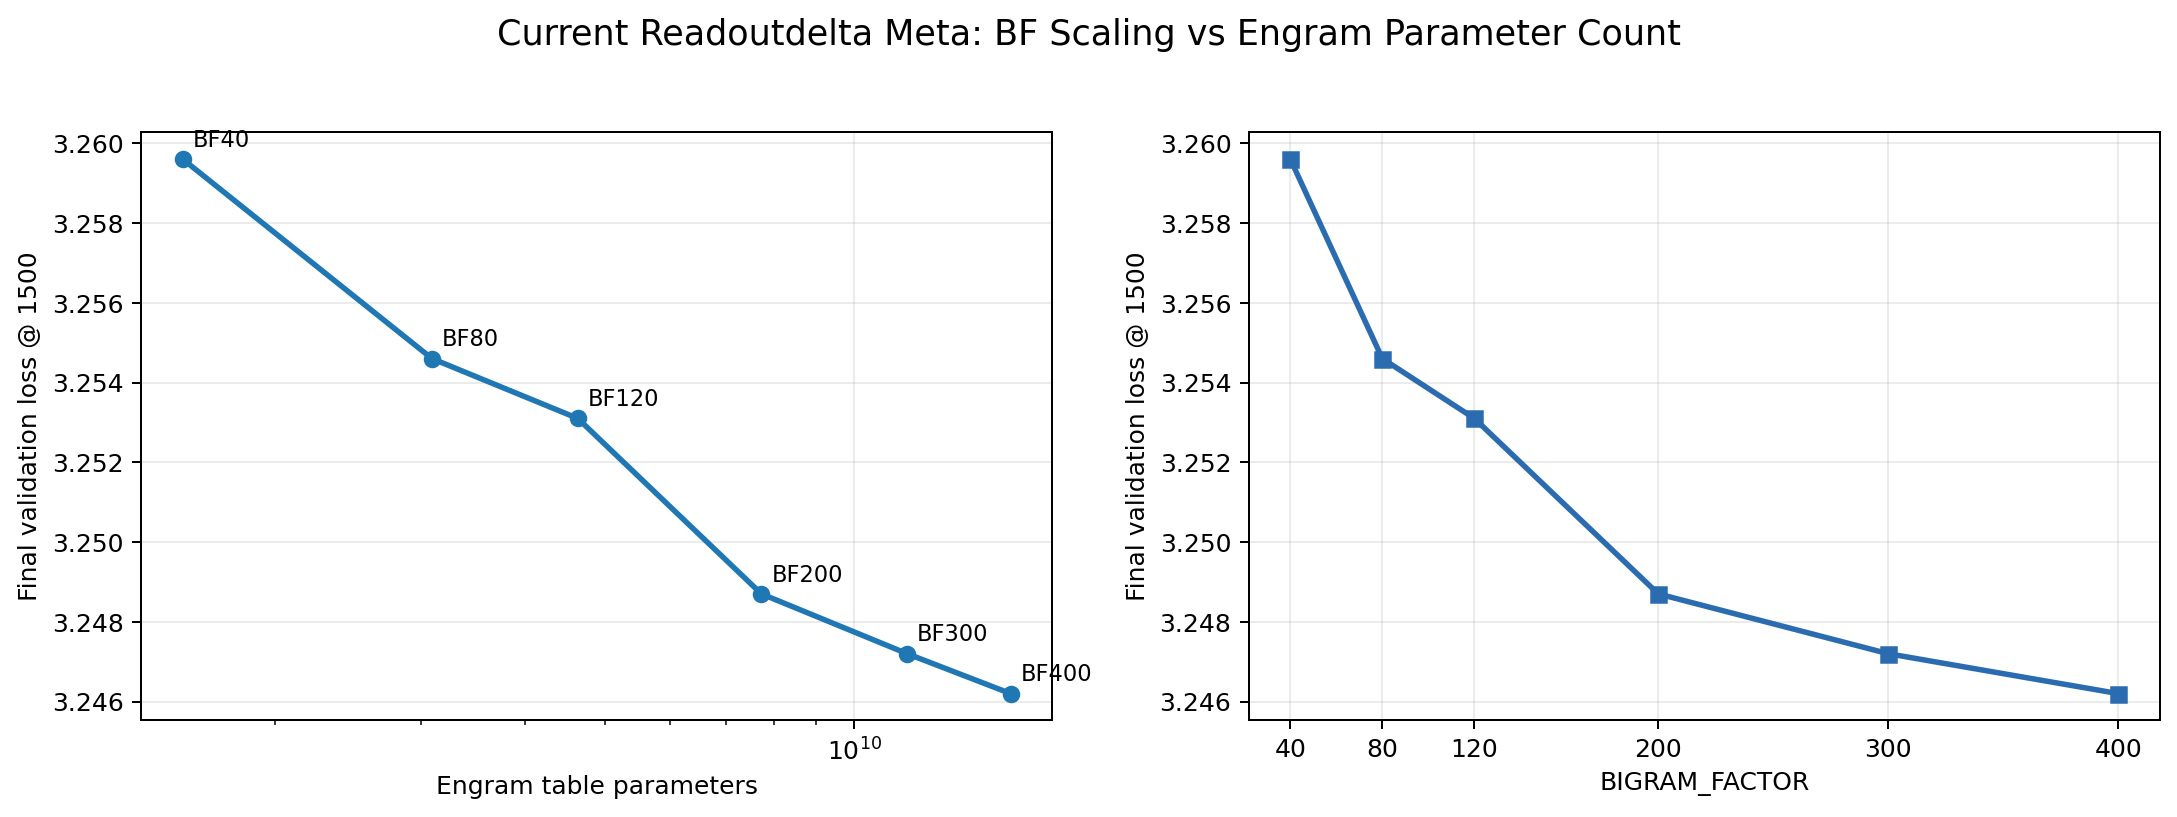
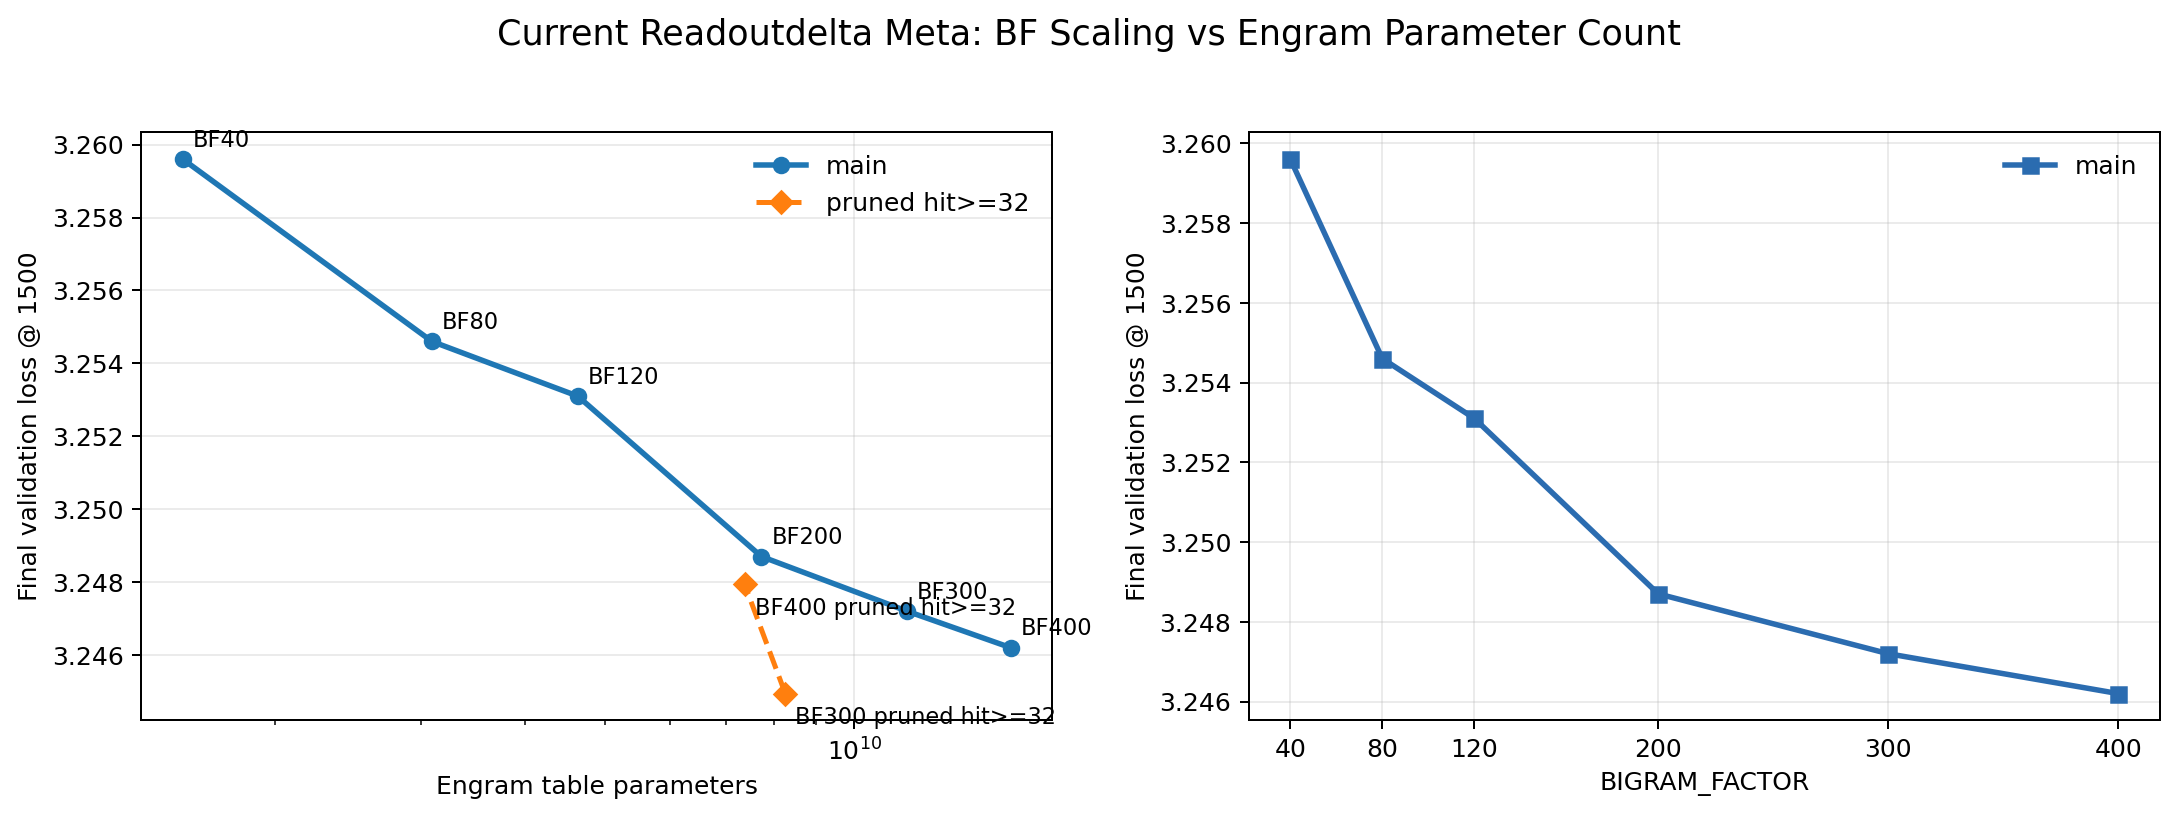
Add pruned Engram table overlay

diff --git a/experiments/modded_nanogpt_work/reports/make_bf_sota_scaling_20260609.py b/experiments/modded_nanogpt_work/reports/make_bf_sota_scaling_20260609.py
@@ -6,7 +6,7 @@ import csv
 import io
 import math
 import re
-from dataclasses import dataclass
+from dataclasses import dataclass, replace
 from pathlib import Path
 
 
@@ -20,6 +20,12 @@ READOUTDELTA_RUNS = {
     120: "bf120_sota_readoutdelta_seed5_1500_20260609.txt",
     200: "bf200_sota_readoutdelta_seed5_1500_20260609.txt",
     300: "bf300_sota_readoutdelta_seed5_1500_20260609.txt",
+}
+MEASURED_COLD_TAIL_PRUNING = {
+    # Post-hoc checkpoint evals from report.md. Rows with hit < 32 are zeroed.
+    # Parameter count assumes compacting the table down to retained hit>=32 rows.
+    300: {"base_eval_loss": 3.24435, "pruned_row_fraction": 0.2875, "eval_loss": 3.24494},
+    400: {"base_eval_loss": 3.24525, "pruned_row_fraction": 0.5229, "eval_loss": 3.24794},
 }
 
 
@@ -170,6 +176,60 @@ def write_summary(path: Path, runs: list[Run]) -> None:
             )
 
 
+def make_pruned_runs(runs: list[Run], pruning: dict[int, dict[str, float]]) -> list[Run]:
+    pruned_runs: list[Run] = []
+    for r in runs:
+        spec = pruning.get(r.bf)
+        if spec is None:
+            continue
+        retained_fraction = 1.0 - float(spec["pruned_row_fraction"])
+        retained_rows = max(1, int(round(r.table_rows * retained_fraction)))
+        pruned_runs.append(
+            replace(
+                r,
+                final_val=float(spec["eval_loss"]),
+                table_rows=retained_rows,
+                table_params=retained_rows * r.store_dim,
+                peak_mib=None,
+                touched_fraction=retained_fraction,
+            )
+        )
+    return pruned_runs
+
+
+def write_pruning_summary(path: Path, baseline_runs: list[Run], pruned_runs: list[Run]) -> None:
+    baseline_by_bf = {r.bf: r for r in baseline_runs}
+    with path.open("w", newline="") as f:
+        writer = csv.writer(f)
+        writer.writerow(
+            [
+                "bf",
+                "checkpoint_base_eval_loss",
+                "pruned_eval_loss",
+                "delta",
+                "baseline_table_params",
+                "pruned_table_params",
+                "retained_fraction",
+                "pruning_rule",
+            ]
+        )
+        for r in pruned_runs:
+            base = baseline_by_bf[r.bf]
+            base_eval_loss = float(MEASURED_COLD_TAIL_PRUNING[r.bf]["base_eval_loss"])
+            writer.writerow(
+                [
+                    r.bf,
+                    f"{base_eval_loss:.6f}",
+                    f"{r.final_val:.6f}",
+                    f"{r.final_val - base_eval_loss:+.6f}",
+                    base.table_params,
+                    r.table_params,
+                    f"{r.table_params / base.table_params:.6g}",
+                    "zero-mask rows with hit < 32; params assume compaction",
+                ]
+            )
+
+
 def plot_scaling(
     runs: list[Run],
     overlays: list[tuple[str, list[Run]]] | None,
@@ -217,6 +277,8 @@ def plot_scaling(
     ax.plot([r.bf for r in runs], ys, marker="s", linewidth=2.2, color="#2b6cb0", label="main")
     for label, overlay_runs in overlays or []:
         if not overlay_runs:
+            continue
+        if "pruned" in label:
             continue
         ax.plot(
             [r.bf for r in overlay_runs],
@@ -290,6 +352,7 @@ def main() -> None:
     current_meta_runs, current_meta_missing = collect_runs(
         CURRENT_META_LOG_DIR, "bf{bf}_sota_meta_bfscale_seed5_1500_20260609.txt"
     )
+    pruned_current_meta_runs = make_pruned_runs(current_meta_runs, MEASURED_COLD_TAIL_PRUNING)
 
     write_summary(OUT_DIR / "summary.csv", runs)
 
@@ -297,6 +360,12 @@ def main() -> None:
         write_summary(OUT_DIR / "summary_readoutdelta.csv", readoutdelta_runs)
     if current_meta_runs:
         write_summary(OUT_DIR / "summary_current_meta_bfscale.csv", current_meta_runs)
+    if pruned_current_meta_runs:
+        write_pruning_summary(
+            OUT_DIR / "summary_current_meta_pruned_hit32.csv",
+            current_meta_runs,
+            pruned_current_meta_runs,
+        )
 
     fig, plot_uri = plot_scaling(
         runs,
@@ -317,7 +386,7 @@ def main() -> None:
     if current_meta_runs:
         current_fig, current_plot_uri = plot_scaling(
             current_meta_runs,
-            None,
+            [("pruned hit>=32", pruned_current_meta_runs)] if pruned_current_meta_runs else None,
             "Current Readoutdelta Meta: BF Scaling vs Engram Parameter Count",
             OUT_DIR / "bf_current_meta_bfscale_vs_params.png",
         )
@@ -343,6 +412,22 @@ def main() -> None:
                 f"<td>{'' if r.touched_fraction is None else f'{r.touched_fraction:.4f}'}</td>"
                 "</tr>"
             )
+        pruned_rows = []
+        baseline_by_bf = {r.bf: r for r in current_meta_runs}
+        for r in pruned_current_meta_runs:
+            base = baseline_by_bf[r.bf]
+            base_eval_loss = float(MEASURED_COLD_TAIL_PRUNING[r.bf]["base_eval_loss"])
+            pruned_rows.append(
+                "<tr>"
+                f"<td>{r.bf}</td>"
+                f"<td>{base_eval_loss:.5f}</td>"
+                f"<td>{r.final_val:.5f}</td>"
+                f"<td>{r.final_val - base_eval_loss:+.5f}</td>"
+                f"<td>{fmt_billions(r.table_params)}</td>"
+                f"<td>{r.table_params / base.table_params:.3f}</td>"
+                f"<td>zero-mask hit &lt; 32; compact retained rows</td>"
+                "</tr>"
+            )
         current_note = (
             "All six current-meta BF points are present."
             if not current_meta_missing
@@ -357,6 +442,12 @@ def main() -> None:
     <thead><tr><th>BF</th><th>Final val</th><th>Delta vs original same-BF</th><th>Table params</th><th>Rows</th><th>Peak MiB</th><th>Touched fraction</th></tr></thead>
     <tbody>{''.join(current_rows)}</tbody>
   </table>
+  {f'''<h3>Measured Cold-Tail Pruning Overlay</h3>
+  <p class="note">These are post-hoc checkpoint evals, not retrained runs. Deltas are against the checkpoint-loaded base evals, not the inline BF-sweep final losses. The plotted parameter count assumes physical compaction after dropping rows with hit &lt; 32.</p>
+  <table>
+    <thead><tr><th>BF</th><th>Checkpoint base</th><th>Pruned eval loss</th><th>Delta vs ckpt base</th><th>Pruned params</th><th>Retained fraction</th><th>Rule</th></tr></thead>
+    <tbody>{''.join(pruned_rows)}</tbody>
+  </table>''' if pruned_rows else ''}
 """
 
     rows = []